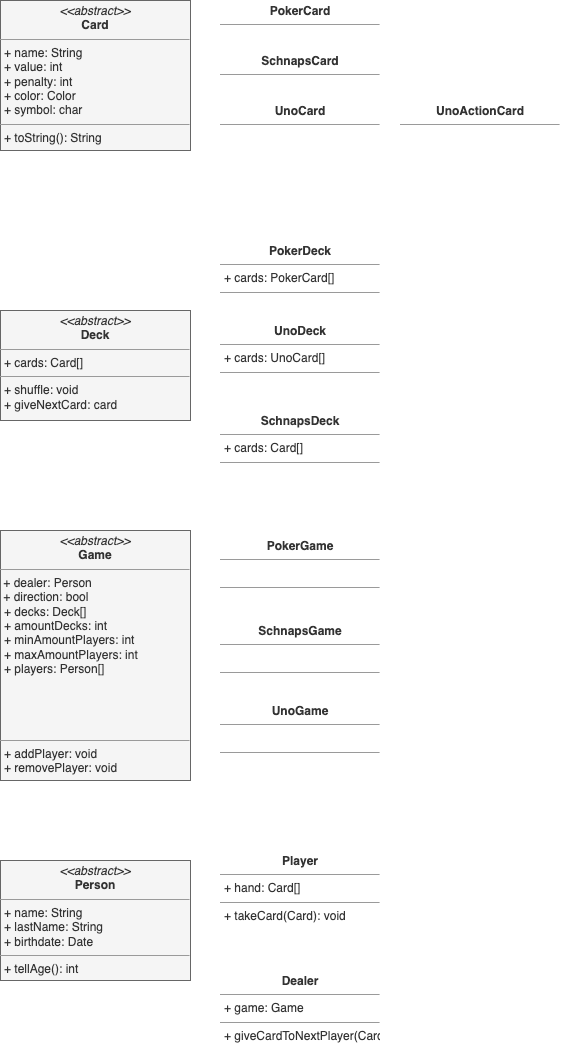
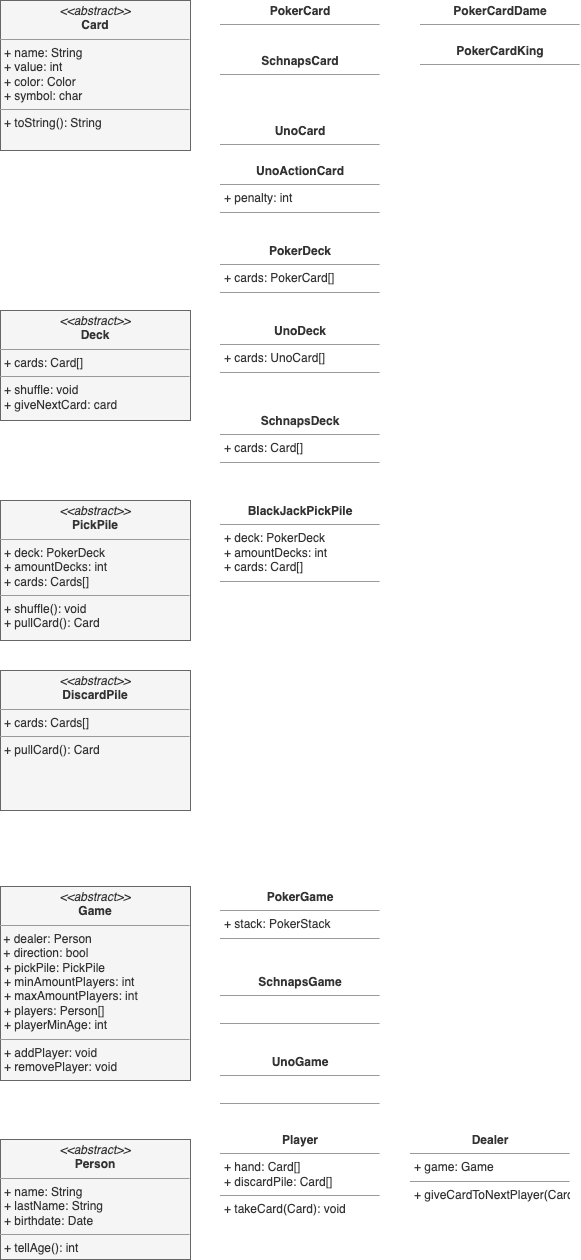
more docs and models

diff --git a/CardGameApp/src/App.java b/CardGameApp/src/App.java
@@ -2,4 +2,5 @@ public class App {
     public static void main(String[] args) throws Exception {
         System.out.println("Welcome to the Card Game App!");
     }
+
 }

diff --git a/README.md b/README.md
@@ -117,6 +117,34 @@ Allows a Game and Player to be gamble.
 
 
 ### Code Structure
+Use [Maven Styled Structure](https://maven.apache.org/guides/introduction/introduction-to-the-standard-directory-layout.html)
 - CardGameApp
   - src
+    - card
+      - Card.java
+      - PokerCard.java
+      - images
+    - deck
+      - Deck.java
+      - PokerDeck.java
+      - cards
+        - uno.csv
+        - schnapsen.csv|.json    
+    - pile
+      - 
+    - person
+    - game
+      - Game.java
+      - PokerGame.java
+      - BlackJackGame.java
+  - test
+    - CardTest.java
+    - PokerCardTest.java
   - data
+    - cards
+      - uno.csv
+      - schnapsen.csv|.json
+
+
+## Storage (optional)
+- Hibernate (ORM)
